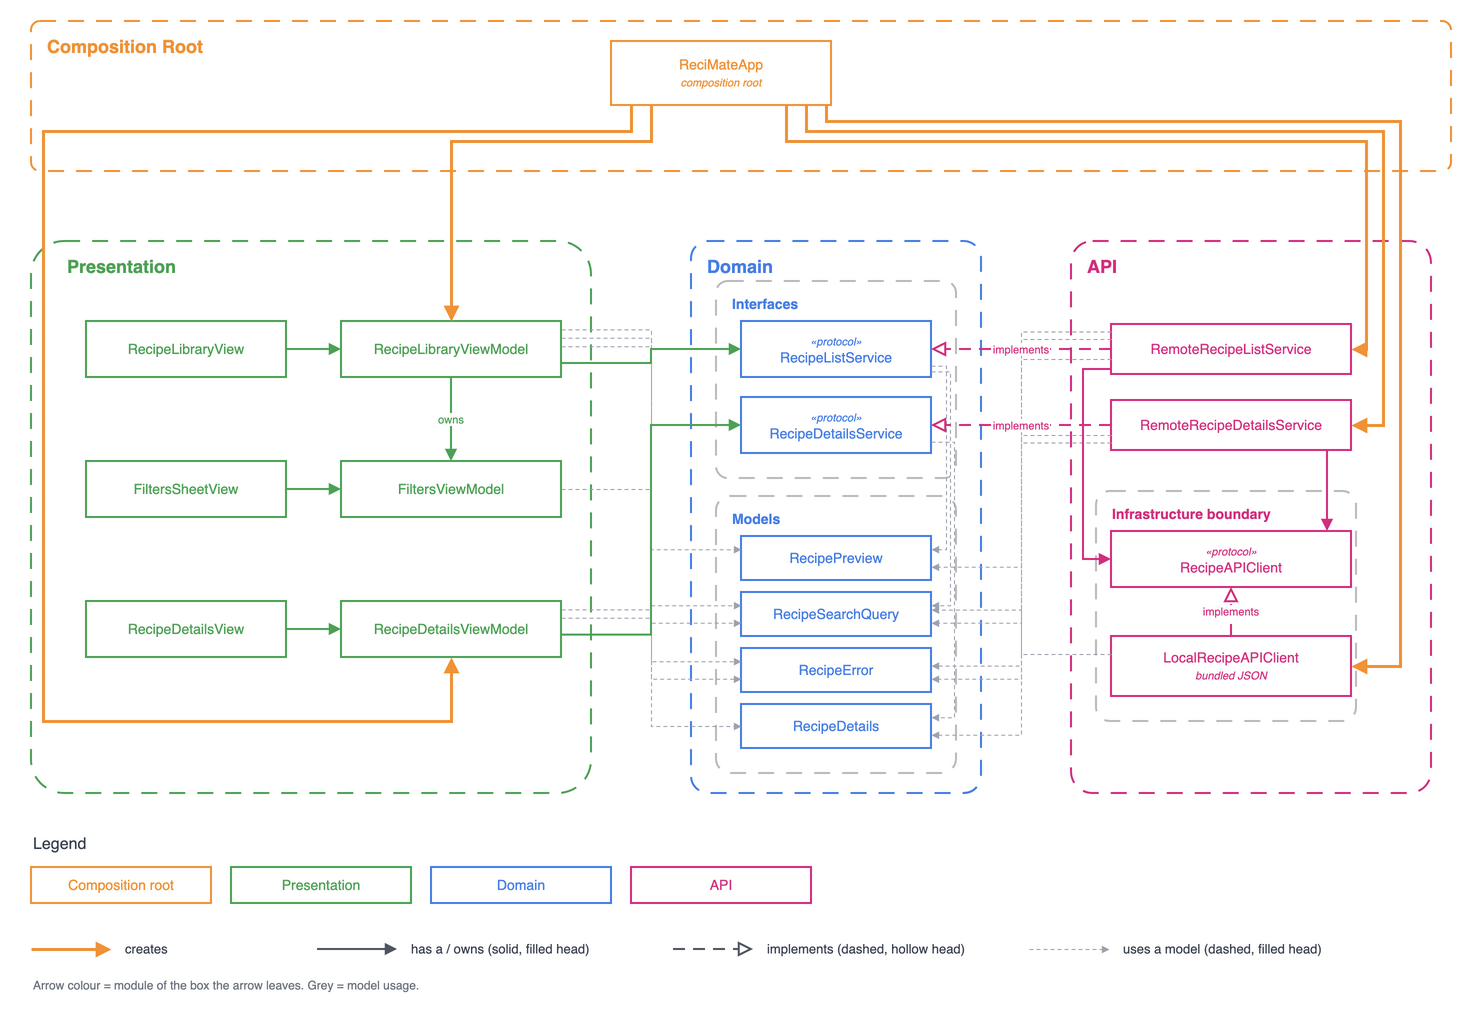
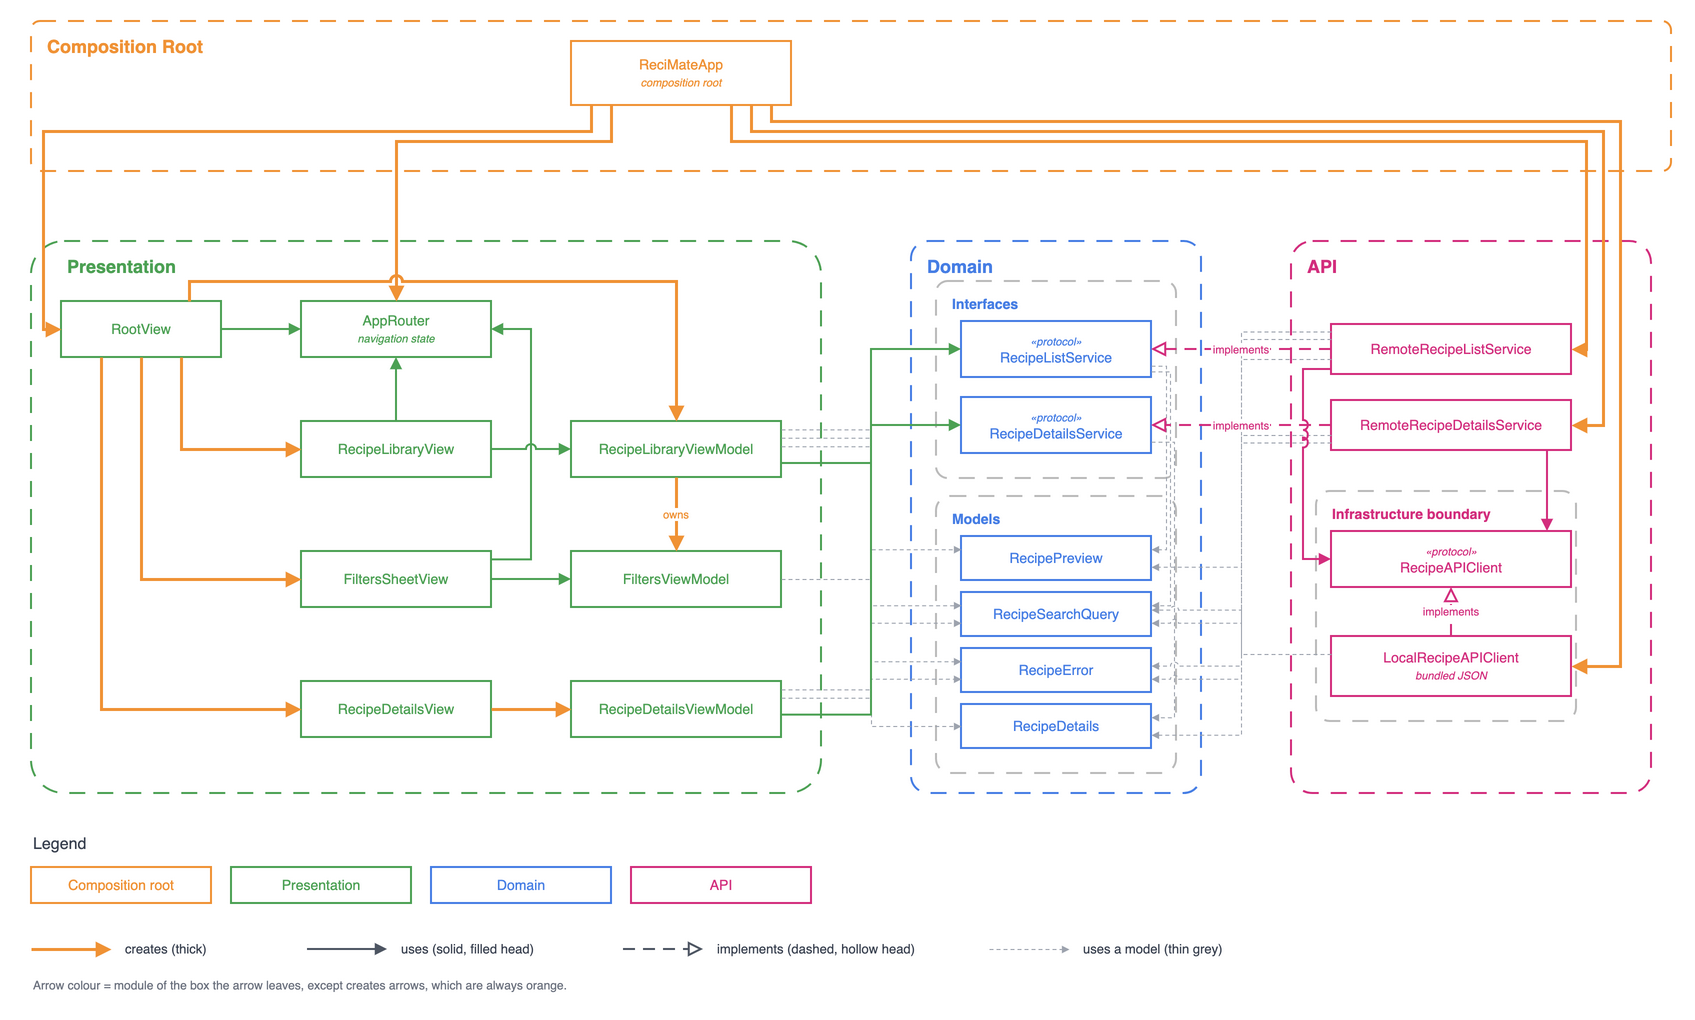
docs: show root view wiring and app router in architecture diagram
The rendered diagram predated the refactor that moved view model creation
out of the composition root. RootView now creates the screens and the
Library view model, AppRouter appears in Presentation, and the README
says where the router is created instead of calling it view-owned.

diff --git a/docs/architecture.md b/docs/architecture.md
@@ -1,6 +1,6 @@
 # Architecture
 
-Three modules: `API`, `Domain` and `Presentation`. `Presentation` and `API` never see each other; both depend on `Domain` only. `ReciMateApp`, the composition root, is the one place that builds `API` types; it forwards them as Domain interfaces to the views, and each view creates the view model it owns.
+Three modules: `API`, `Domain` and `Presentation`. `Presentation` and `API` never see each other; both depend on `Domain` only. `ReciMateApp`, the composition root, is the one place that builds `API` types; it forwards them as Domain interfaces to the views, and each view creates the view model it owns. It also creates the `AppRouter`, which the views receive through their initializers.
 
 Inside `API`, the services reach their data source only through `RecipeAPIClient`, so the bundled-JSON `LocalRecipeAPIClient` can be swapped for a network client without touching a service.
 
@@ -13,6 +13,7 @@ flowchart TB
     subgraph Presentation
         direction LR
         Root[RootView]
+        Router["AppRouter<br/><i>navigation state</i>"]
         LibraryView[RecipeLibraryView]
         LibraryVM[RecipeLibraryViewModel]
         FiltersView[FiltersSheetView]
@@ -46,29 +47,36 @@ flowchart TB
         end
     end
 
-    %% Creates (0-4, and 7)
+    %% Creates (0-10)
+    App ==> Router
     App ==> Root
-    Root ==> LibraryVM
     App ==> RemoteList
     App ==> RemoteDetails
     App ==> LocalClient
+    Root ==> LibraryView
+    Root ==> FiltersView
+    Root ==> DetailsView
+    Root ==> LibraryVM
+    DetailsView ==> DetailsVM
+    LibraryVM ==>|owns| FiltersVM
 
-    %% Presentation (5-10)
+    %% Presentation (11-17)
+    Root --> Router
+    LibraryView --> Router
+    FiltersView --> Router
     LibraryView --> LibraryVM
     FiltersView --> FiltersVM
-    DetailsView ==> DetailsVM
-    LibraryVM -->|owns| FiltersVM
     LibraryVM --> ListService
     DetailsVM --> DetailsService
 
-    %% API (11-15)
+    %% API (18-22)
     RemoteList -.->|implements| ListService
     RemoteDetails -.->|implements| DetailsService
     RemoteList --> APIClient
     RemoteDetails --> APIClient
     LocalClient -.->|implements| APIClient
 
-    %% Model usage (16-30)
+    %% Model usage (23-37)
     ListService --> Preview
     ListService --> Query
     DetailsService --> Details
@@ -92,11 +100,11 @@ flowchart TB
     classDef api fill:#fce7f3,stroke:#be185d,color:#1f2937
 
     class App root
-    class Root,LibraryView,LibraryVM,FiltersView,FiltersVM,DetailsView,DetailsVM presentation
+    class Root,Router,LibraryView,LibraryVM,FiltersView,FiltersVM,DetailsView,DetailsVM presentation
     class ListService,DetailsService,APIClient protocol
     class Preview,Details,Query,Error model
     class RemoteList,RemoteDetails,LocalClient api
 
-    linkStyle 0,1,2,3,4,7 stroke:#b45309,stroke-width:2.5px
-    linkStyle 16,17,18,19,20,21,22,23,24,25,26,27,28,29,30 stroke:#9ca3af,stroke-width:1px
+    linkStyle 0,1,2,3,4,5,6,7,8,9,10 stroke:#b45309,stroke-width:2.5px
+    linkStyle 23,24,25,26,27,28,29,30,31,32,33,34,35,36,37 stroke:#9ca3af,stroke-width:1px
 ```

diff --git a/README.md b/README.md
@@ -119,8 +119,8 @@ Seven choices made on purpose. The reasoning, the rejected options and the rest 
   - No scope picker, following Apple's HIG and NN/g; a card found only by its steps says so. Typing is debounced, and a stale reply never overwrites a newer one.
 - **The view state does not carry the data**
   - `ViewState` (`loading`, `loaded`, `error`) sits beside the data, so the grid keeps its cards and scroll position while a new search runs.
-- **Navigation goes through a router the views own**
-  - `AppRouter` is injected by initializer at the composition root, never through `@Environment`, off-loading the viewModel with one less responsibility.
+- **Views navigate through an injected router**
+  - `AppRouter` is created at the composition root and passed to the views by initializer, never through `@Environment`. The views call it directly, which keeps navigation out of the view models.
 - **Backend data is trusted, not validated**
   - `invalidData` means only "does not decode": rule checks were built, then removed, because they hid what the server sent. Each error kind gets its own message and Try Again.
 - **Native controls first**
